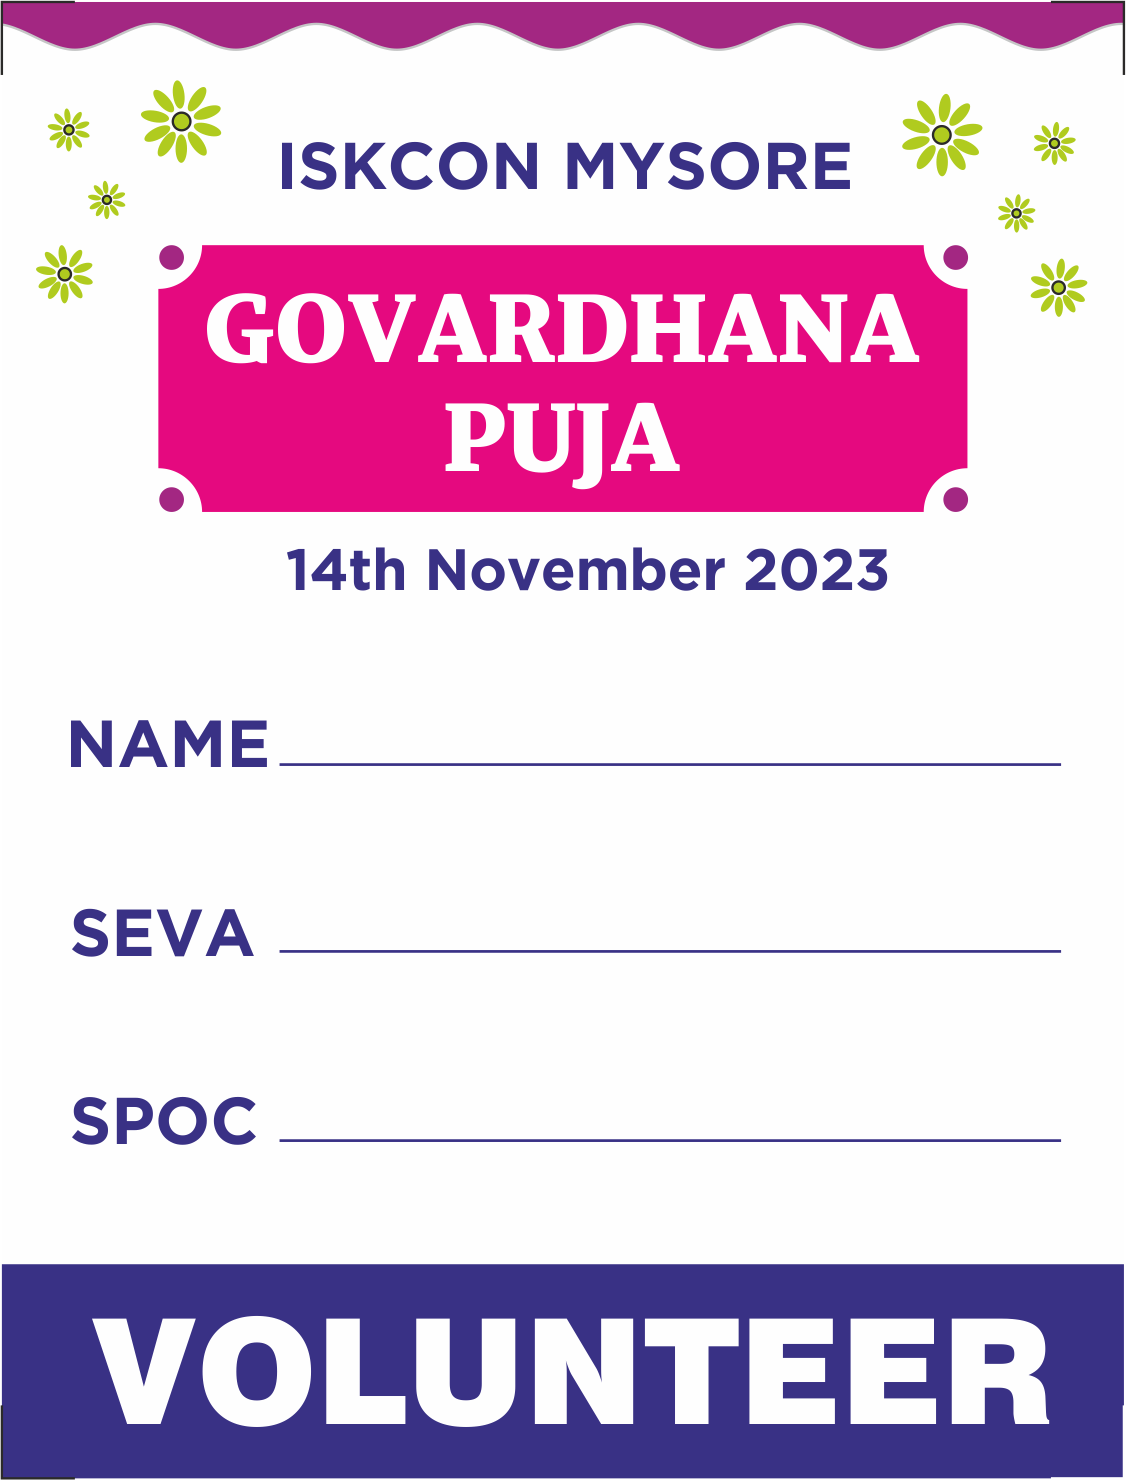
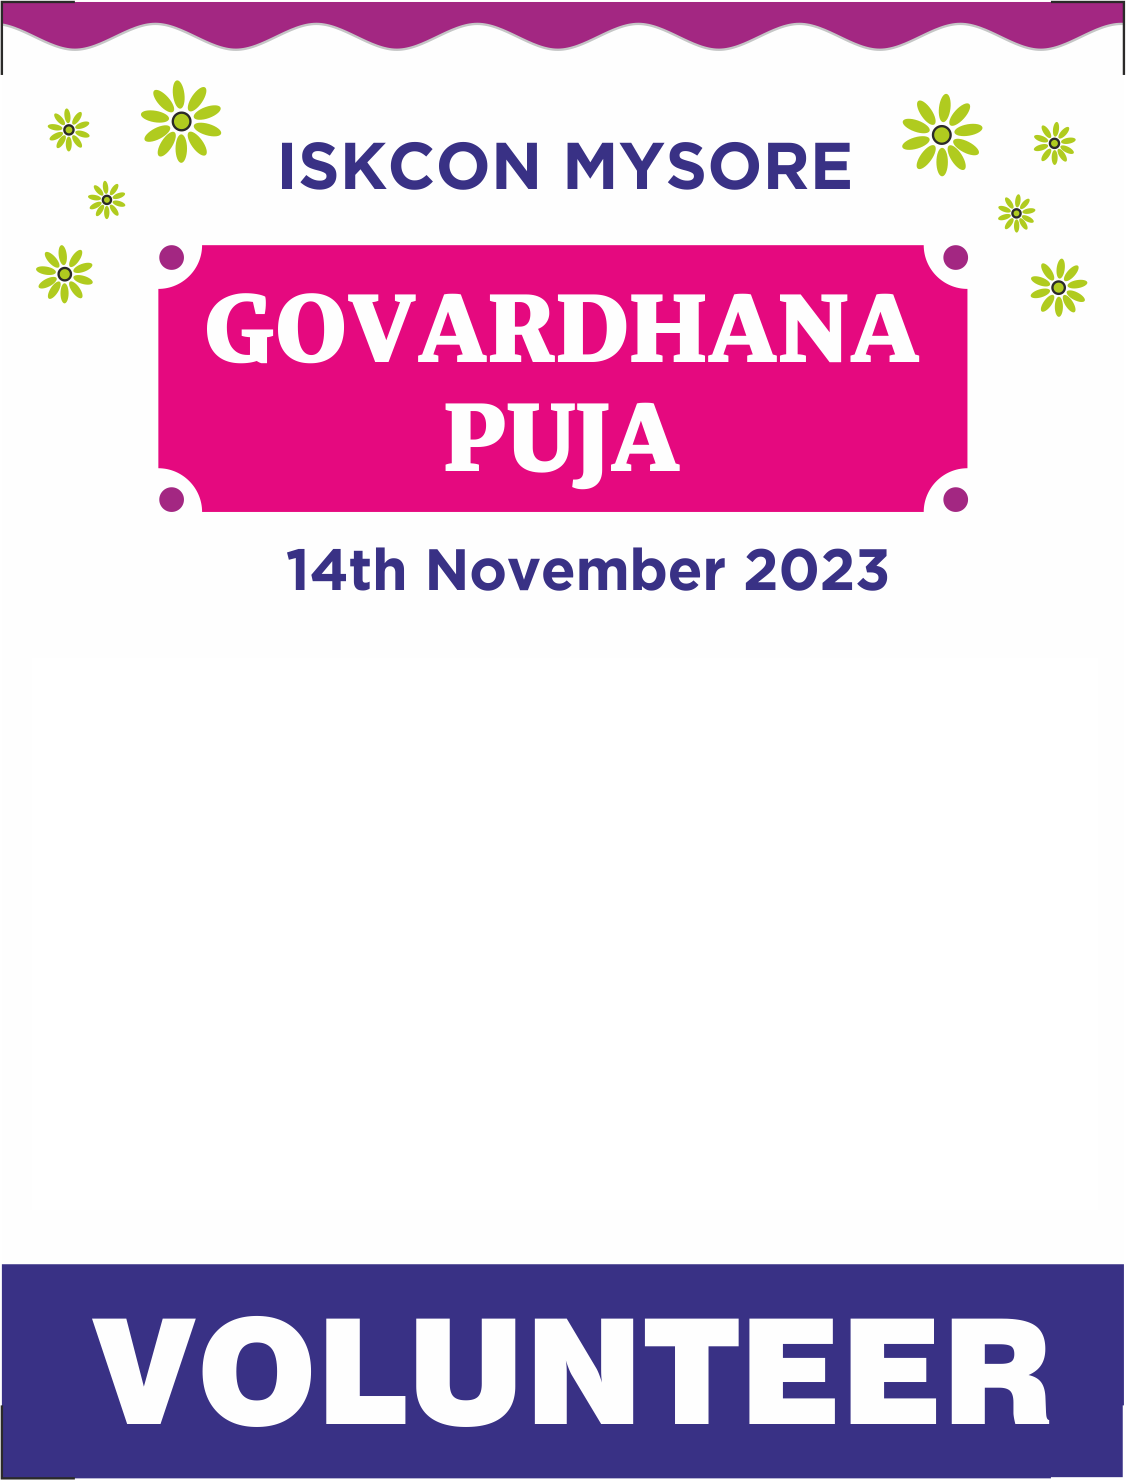
amazing

Changed region(s): [[0.0622, 0.4662, 0.2487, 0.5284], [0.0622, 0.5905, 0.2176, 0.6527], [0.0622, 0.7149, 0.2176, 0.777]]

diff --git a/app/vol/src/pages/util/badge-print/index.js b/app/vol/src/pages/util/badge-print/index.js
@@ -4,14 +4,29 @@ import "./index.css"
 const Badge = (props) =>{
     const { name, seva, spoc } = props.details
     const { back } = props
+
     return (
-        <div className="bp-badge">
-            <img className="bp-image" src={`../img/${back?"back":"front"}.png`}/>
-            <div className="bp-entry">
-                <div className="bp-feild bp-name">{name}</div>
-                <div className="bp-feild bp-seva">{seva}</div>
-                <div className="bp-feild bp-spoc">{spoc}</div>
-            </div>
+        <div className="bp-badge" style={{
+                backgroundImage: `url(${process.env.PUBLIC_URL}/img/${back?'back':'front'}.png)`,
+                backgroundSize: 'cover',
+                backgroundPosition: 'center',
+                width: '3.75in',
+                height: '5in'
+            }}>
+                {!back?<div className="bp-details">
+                    <div className="bp-detail">
+                        <div className="bp-detail-label">NAME</div>
+                        <div className="bp-detail-text">{name}</div>
+                    </div>
+                    <div className="bp-detail">
+                        <div className="bp-detail-label">SEVA</div>
+                        <div className="bp-detail-text">{seva}</div>
+                    </div>
+                    <div className="bp-detail">
+                        <div className="bp-detail-label">SPOC</div>
+                        <div className="bp-detail-text">{spoc}</div>
+                    </div>
+                </div>:null}
         </div>
     )
 }
@@ -24,9 +39,7 @@ const BadgePrint = (props)=>{
     let serviceNameMap = {}
 
     const emptyBadge = {
-        name: "",
-        seva: "",
-        spoc: ""
+        name: "", seva: "", spoc: ""
     }
 
     useEffect(()=>{
@@ -58,7 +71,7 @@ const BadgePrint = (props)=>{
         services.forEach(s => {
             serviceNameMap[s.serviceName]=s.mainService
         })
-    
+
         setBadgeList(Object.keys(volunteersMap).sort().map(v=>{
             return {
                 name: v,
@@ -66,23 +79,56 @@ const BadgePrint = (props)=>{
                 spoc: volunteersMap[v].spoc
             }
         }).concat(new Array(20).fill(emptyBadge)))
+
+
     }, [data])
 
-    const PageBreak = <div className="page-break"></div>
+    let badgeShard = badgeList.shard(10, emptyBadge)
 
     return (
-        <div className="bp-page">
+        <div className="bp-root">
             {
-                badgeList.shard(10, emptyBadge).interleave(new Array(10).fill(emptyBadge), true).map((s, i)=>{
-                    return <div className="bp-grid">
-                        {
-                            s.map(b=>{
-                                return <Badge details={b} key={b.name} back={(i+1)%2==0}/>
-                            })
-                        }
-                    </div>
+                badgeShard.map((s, i)=>{
+                    return [
+                        <div className="bp-page" key={`s-${i}`}>
+                            <div className="bp-row">
+                                {
+                                    s.slice(0, s.length/2).map(b=>{
+                                        return <Badge details={b}/>
+                                    })
+                                }
+                            </div>
+                            <div className="bp-row">
+                                {
+                                    s.slice(s.length/2, s.length).map(b=>{
+                                        return <Badge details={b}/>
+                                    })
+                                }
+                            </div>
+                            <div className="page-break"></div>
+                        </div>,
+
+                        <div className="bp-page" key={`s-${i}`}>
+                            <div className="bp-row">
+                                {
+                                    s.slice(0, s.length/2).map(b=>{
+                                        return <Badge details={b} back/>
+                                    })
+                                }
+                            </div>
+                            <div className="bp-row">
+                                {
+                                    s.slice(s.length/2, s.length).map(b=>{
+                                        return <Badge details={b} back/>
+                                    })
+                                }
+                            </div>
+                            {!(i==badgeShard.length-1)?<div className="page-break"></div>:null}
+                        </div>
+                    ]
                 })
             }
+
         </div>
     )
 }

diff --git a/app/vol/src/pages/util/badge-print/index.css b/app/vol/src/pages/util/badge-print/index.css
@@ -6,43 +6,57 @@
 .bp-page {
     display: flex;
     flex-direction: column;
+    align-items: center;
+    height: 13in;
     width: 19in;
     justify-content: center;
-    align-items: center;
+    background-color: white;
 }
 
-.bp-grid {
+.bp-row {
     display: flex;
-    flex-wrap: wrap;
-    margin: 0 0 0 0.125in
-}
-
-.bp-entry {
-    position: relative;
-    font-size: .24in;
-    font-weight: bold;
-    text-transform: uppercase;
-    left: 1in;
-    height: .6in;
-    padding: 0;
-    margin: 0;
-    top: -2.88in;
-    width: 2.5in;
-}
-
-.bp-name {
-    height: .64in;
-}
-
-.bp-seva {
-    height: .64in;
 }
 
 .bp-badge {
     height: 5in;
+    width: 3.75in;
 }
 
-.bp-image, .bp-badge {
-    width: 3.75in;
-    height: 5in;
+.bp-details {
+    font-size: .235in;
+    position: relative;
+    font-weight: 900;
+    text-transform: uppercase;
+    top: 2.15in;
+    height: 2.1in;
+
+    display: flex;
+    flex-direction: column;
+    justify-content: space-evenly;
+    align-items: center;
+}
+
+.bp-detail {
+    display: flex;
+    width: 95%;
+}
+
+.bp-detail-label {
+    width: 23%;
+
+    display: flex;
+    align-items: center;
+    justify-content: flex-start;
+
+    color: #393185;
+    font-weight: bolder;
+}
+
+.bp-detail-text {
+    width: 72%;
+
+    display: flex;
+    flex-wrap: wrap;
+
+    border-bottom: .019in solid #393185b7;
 }
